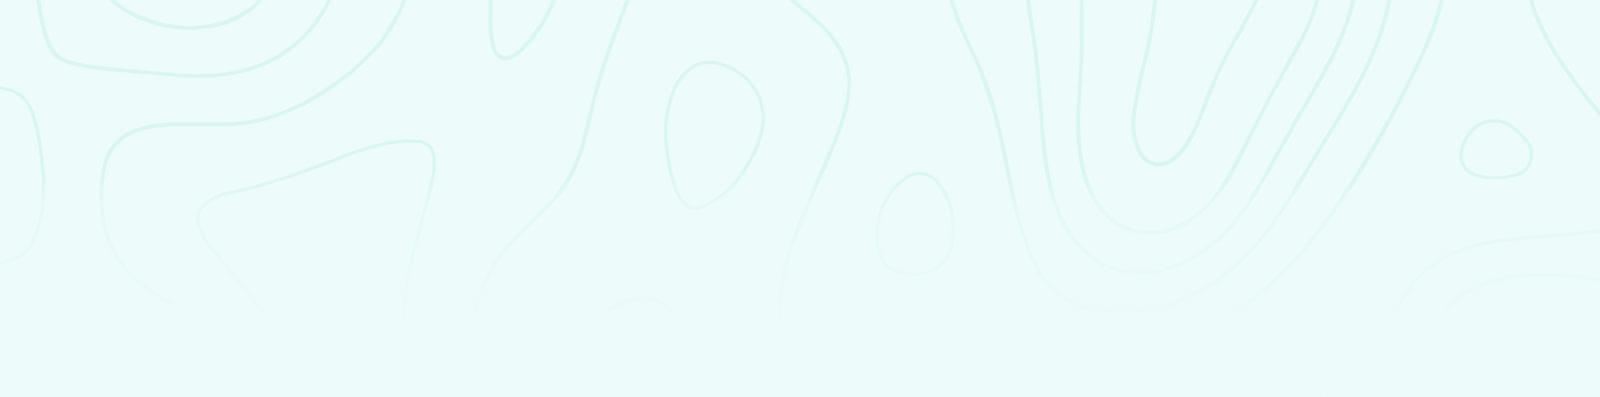
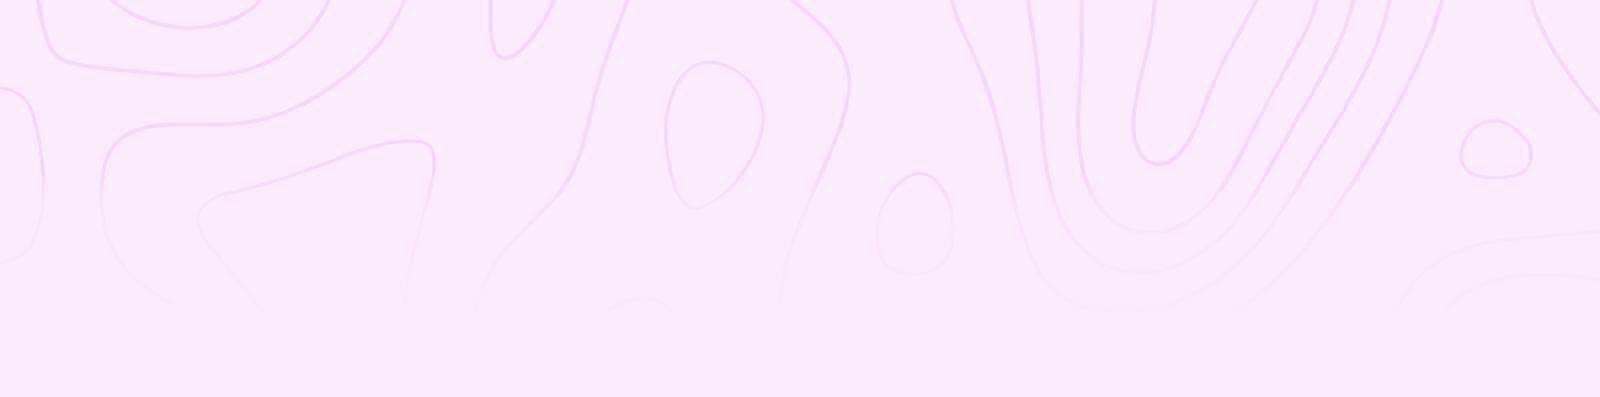
Layout changes

diff --git a/assets/css/style.css b/assets/css/style.css
@@ -4199,10 +4199,15 @@ input[type=radio] {
 /*-------------------------
     Footer
 --------------------------*/
+
+.footer{
+    background-image: url("../images/backgrounds/footer-bg.png") !important;
+    background-repeat: no-repeat;
+}
+
 .footer .footer-primary {
   padding-top: 85px;
   padding-bottom: 60px;
-  background-color: #350653;
 }
 
 .footer .footer-secondary {

diff --git a/faqs.php b/faqs.php
@@ -352,141 +352,18 @@
           </div><!-- /.col-12 -->
         </div><!-- /.row -->
       </div><!-- /.container -->
-      <div class="cta bg-primary">
-        <div class="container">
-          <div class="row align-items-center">
-            <div class="col-sm-12 col-md-2 col-lg-2">
-              <img src="assets/images/icons/alert.png" alt="alert">
-            </div><!-- /.col-lg-2 -->
-            <div class="col-sm-12 col-md-7 col-lg-7">
-              <h4 class="cta__title">True Healthcare For Your Family!</h4>
-              <p class="cta__desc">Serve the community by improving the quality of life through better health. We have
-                put protocols to protect our patients and staff while continuing to provide medically necessary care.
-              </p>
-            </div><!-- /.col-lg-7 -->
-            <div class="col-sm-12 col-md-3 col-lg-3">
-              <a href="appointment.html" class="btn btn__secondary btn__secondary-style2 btn__rounded mr-30">
-                <span>Healthcare Programs</span>
-                <i class="icon-arrow-right"></i>
-              </a>
-            </div><!-- /.col-lg-3 -->
-          </div><!-- /.row -->
-        </div><!-- /.container -->
-      </div><!-- /.cta -->
+      
+        
     </section><!-- /.Work Process -->
 
-    <!-- ========================= 
-      Testimonials layout 2
-      =========================  -->
-    <section class="testimonials-layout2 pt-130 pb-40">
-      <div class="container">
-        <div class="testimonials-wrapper">
-          <div class="row">
-            <div class="col-sm-12 col-md-12 col-lg-5">
-              <div class="heading-layout2">
-                <h3 class="heading__title">Inspiring Stories!</h3>
-              </div><!-- /.heading -->
-            </div><!-- /.col-lg-5 -->
-            <div class="col-sm-12 col-md-12 col-lg-7">
-              <div class="slider-with-navs">
-                <!-- Testimonial #1 -->
-                <div class="testimonial-item">
-                  <h3 class="testimonial__title">“Their doctors include highly qualified practitioners who come from a
-                    range of backgrounds and bring with them a diversity of skills and special interests. They also have
-                    registered nurses on staff who are available to triage any urgent matters, and the administration
-                    and support staff all have exceptional people skills”
-                  </h3>
-                </div><!-- /. testimonial-item -->
-                <!-- Testimonial #2 -->
-                <div class="testimonial-item">
-                  <h3 class="testimonial__title">“Their doctors include highly qualified practitioners who come from a
-                    range of backgrounds and bring with them a diversity of skills and special interests. They also have
-                    registered nurses on staff who are available to triage any urgent matters, and the administration
-                    and support staff all have exceptional people skills”
-                  </h3>
-                </div><!-- /. testimonial-item -->
-                <!-- Testimonial #3 -->
-                <div class="testimonial-item">
-                  <h3 class="testimonial__title">“Their doctors include highly qualified practitioners who come from a
-                    range of backgrounds and bring with them a diversity of skills and special interests. They also have
-                    registered nurses on staff who are available to triage any urgent matters, and the administration
-                    and support staff all have exceptional people skills”
-                  </h3>
-                </div><!-- /. testimonial-item -->
-              </div><!-- /.slick-carousel -->
-              <div class="slider-nav mb-60">
-                <div class="testimonial__meta">
-                  <div class="testimonial__thmb">
-                    <img src="assets/images/testimonials/thumbs/1.png" alt="author thumb">
-                  </div><!-- /.testimonial-thumb -->
-                  <div>
-                    <h4 class="testimonial__meta-title">Sami Wade</h4>
-                    <p class="testimonial__meta-desc">7oroof Inc</p>
-                  </div>
-                </div><!-- /.testimonial-meta -->
-                <div class="testimonial__meta">
-                  <div class="testimonial__thmb">
-                    <img src="assets/images/testimonials/thumbs/2.png" alt="author thumb">
-                  </div><!-- /.testimonial-thumb -->
-                  <div>
-                    <h4 class="testimonial__meta-title">Ahmed</h4>
-                    <p class="testimonial__meta-desc">Web Inc</p>
-                  </div>
-                </div><!-- /.testimonial-meta -->
-                <div class="testimonial__meta">
-                  <div class="testimonial__thmb">
-                    <img src="assets/images/testimonials/thumbs/3.png" alt="author thumb">
-                  </div><!-- /.testimonial-thumb -->
-                  <div>
-                    <h4 class="testimonial__meta-title">Sonia Blake</h4>
-                    <p class="testimonial__meta-desc">Web Inc</p>
-                  </div>
-                </div><!-- /.testimonial-meta -->
-              </div><!-- /.slider-nav -->
-            </div><!-- /.col-lg-7 -->
-          </div><!-- /.row -->
-        </div><!-- /.testimonials-wrapper -->
-      </div><!-- /.container -->
-    </section><!-- /.testimonials layout 2 -->
+    
 
-    <!-- ========================
-     gallery
-    =========================== -->
-    <section class="gallery pt-0 pb-90">
-      <div class="container">
-        <div class="row">
-          <div class="col-12">
-            <div class="slick-carousel"
-              data-slick='{"slidesToShow": 4, "slidesToScroll": 1, "autoplay": true, "arrows": true, "dots": false, "responsive": [ {"breakpoint": 992, "settings": {"slidesToShow": 2}}, {"breakpoint": 767, "settings": {"slidesToShow": 2}}, {"breakpoint": 480, "settings": {"slidesToShow": 1}}]}'>
-              <a class="popup-gallery-item" href="assets/images/gallery/1.jpg">
-                <img src="assets/images/gallery/1.jpg" alt="gallery img">
-              </a>
-              <a class="popup-gallery-item" href="assets/images/gallery/2.jpg">
-                <img src="assets/images/gallery/2.jpg" alt="gallery img">
-              </a>
-              <a class="popup-gallery-item" href="assets/images/gallery/3.jpg">
-                <img src="assets/images/gallery/3.jpg" alt="gallery img">
-              </a>
-              <a class="popup-gallery-item" href="assets/images/gallery/4.jpg">
-                <img src="assets/images/gallery/4.jpg" alt="gallery img">
-              </a>
-              <a class="popup-gallery-item" href="assets/images/gallery/5.jpg">
-                <img src="assets/images/gallery/5.jpg" alt="gallery img">
-              </a>
-              <a class="popup-gallery-item" href="assets/images/gallery/6.jpg">
-                <img src="assets/images/gallery/6.jpg" alt="gallery img">
-              </a>
-            </div><!-- /.gallery-images-wrapper -->
-          </div><!-- /.col-xl-5 -->
-        </div><!-- /.row -->
-      </div><!-- /.container -->
-    </section><!-- /.gallery 2 -->
-
-    <!-- footer Linked -->
     
     <?php
      include('footer.inc');
     ?>
+      
+      
 </body>
 
 </html>
